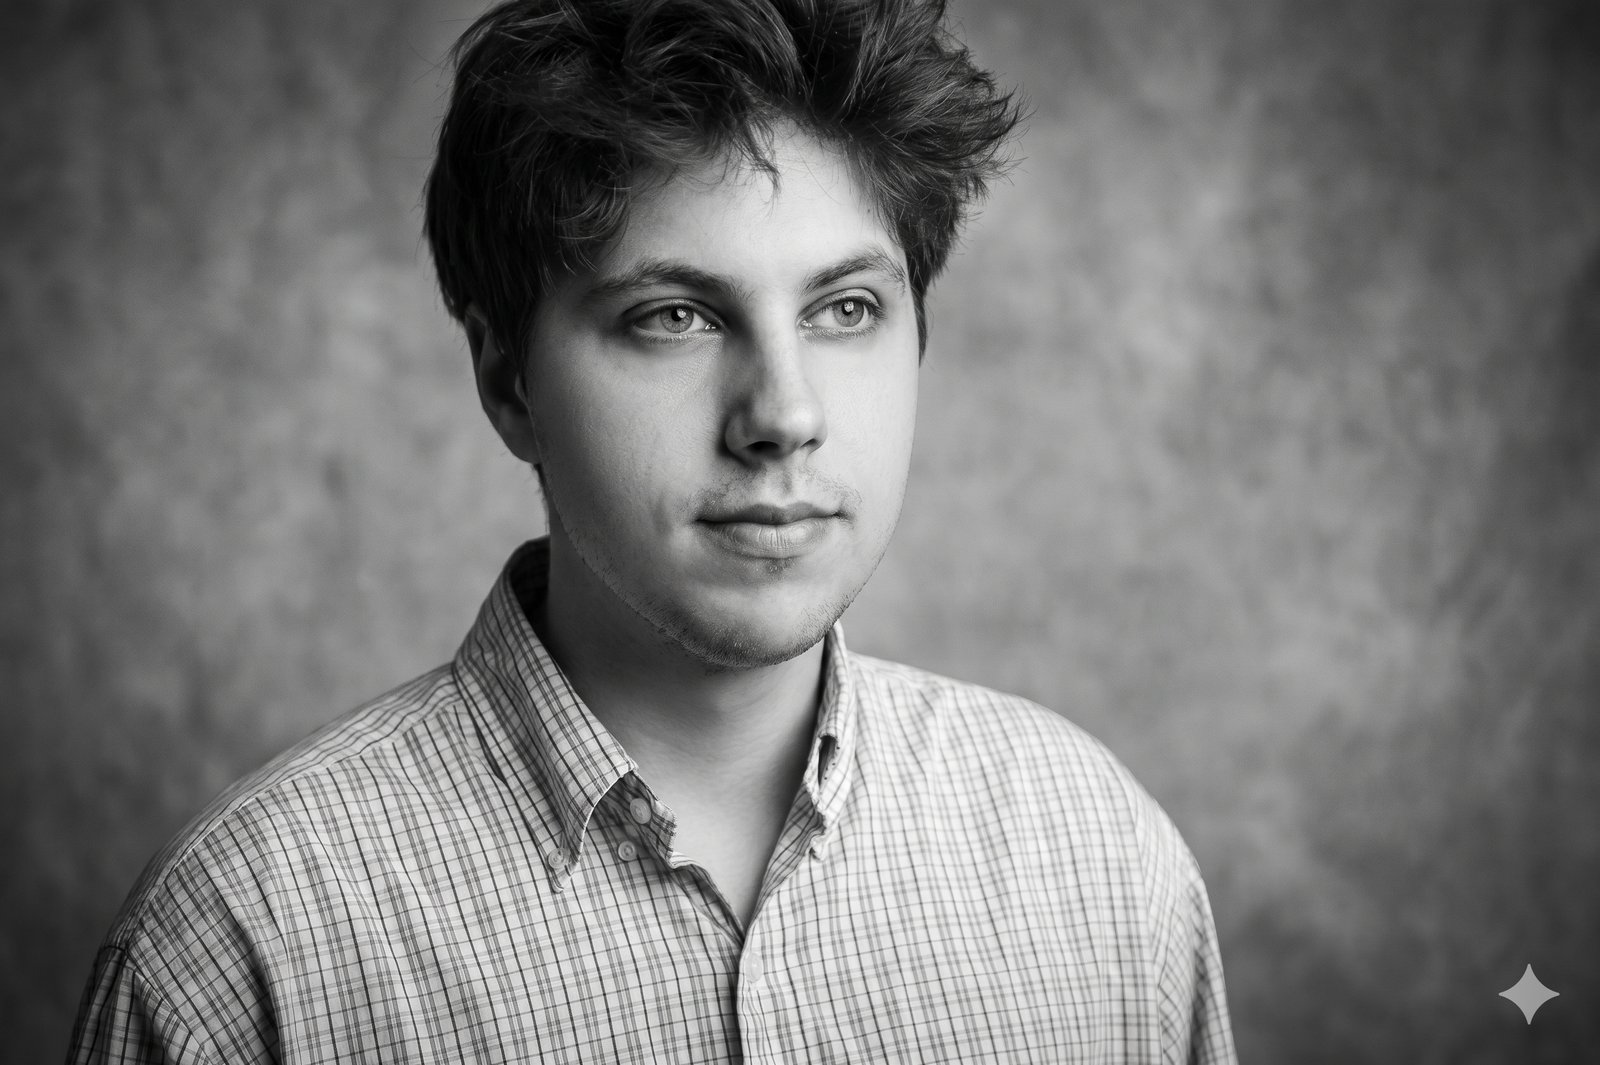
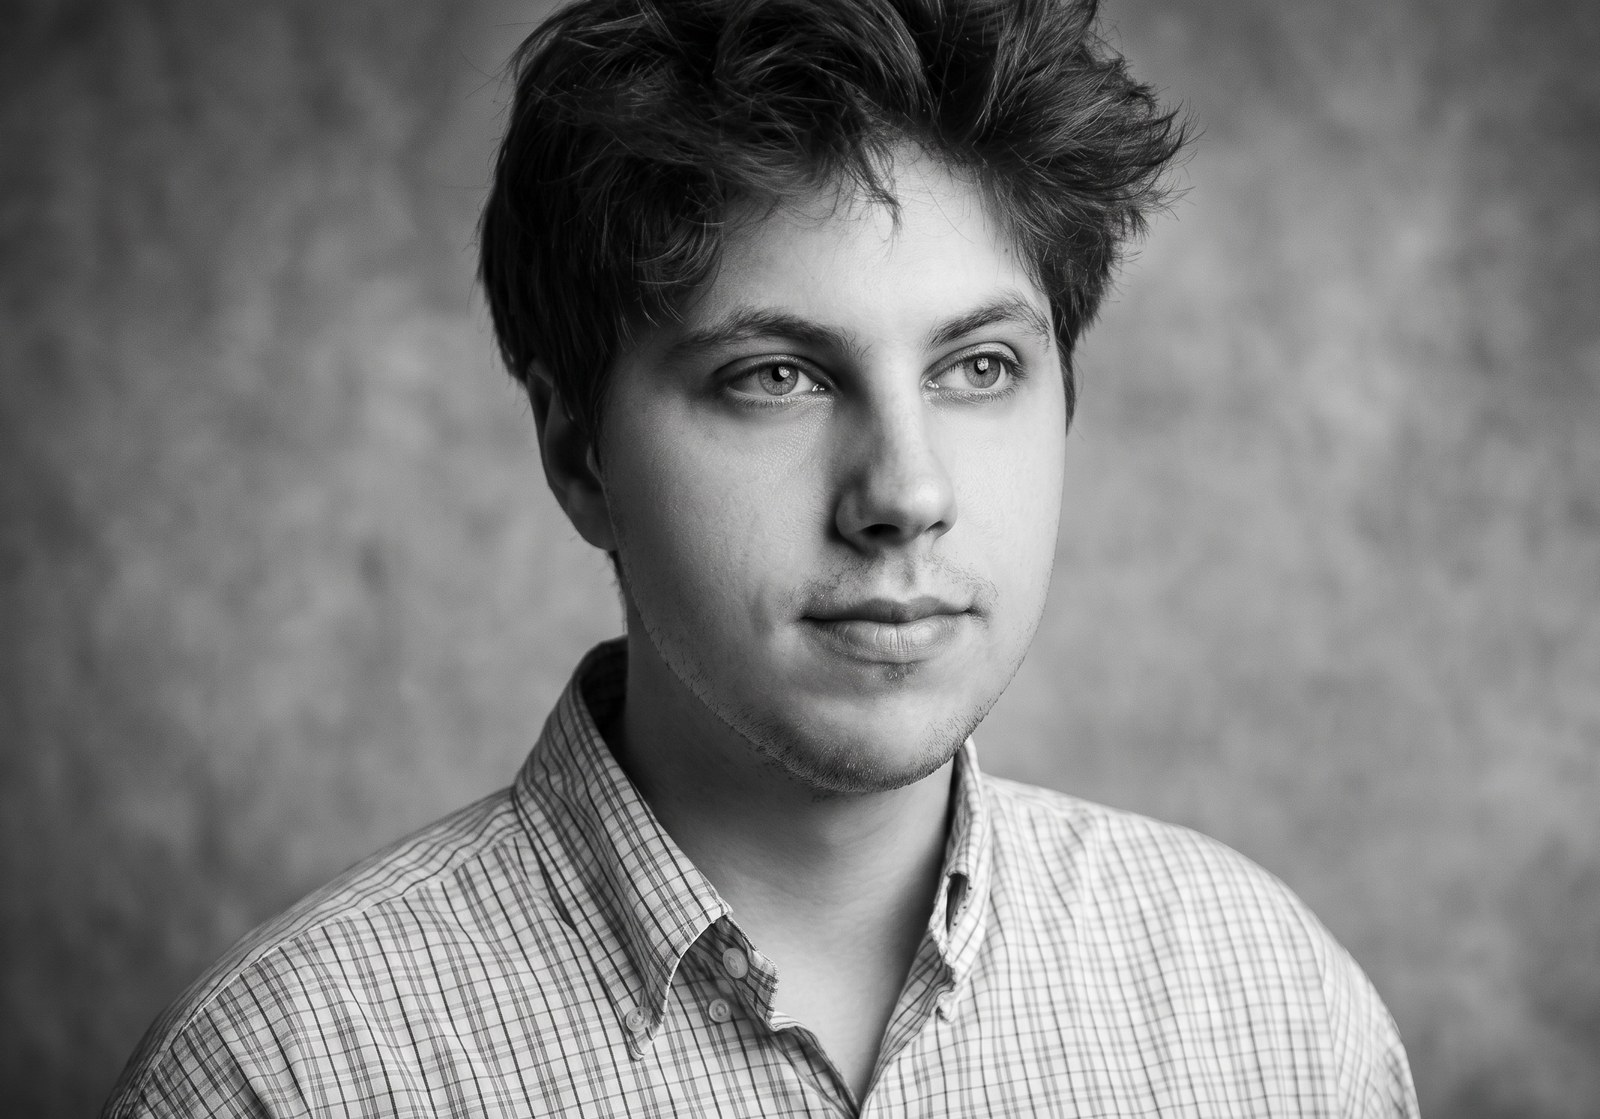
Ajoute la vraie photo de profil (About + teaser accueil)
Remplace les deux placeholders monogramme par la photo fournie par
l'utilisateur (confirmée comme étant lui, sans le filigrane IA de l'ancien
candidat). Retire loading="lazy" sur la version about.html : cette image
est proche du haut de page, elle doit charger immédiatement plutôt
qu'attendre une entrée en viewport.

diff --git a/about.html b/about.html
@@ -57,21 +57,8 @@
     <div class="about-grid">
 
       <div class="about-media" data-reveal>
-        <!--
-          PHOTO DE PROFIL À INSÉRER : assets/images/portrait-thomas-cossement.jpg
-          Portrait noir & blanc ou couleur, cadrage serré, format portrait 4:5, 1600px min.
-          ⚠ Un candidat a été trouvé dans ton dossier source (Links/Gemini_Generated_Image_
-          lzn9gclzn9gclzn9.png) mais porte un filigrane "généré par Gemini" visible en bas à
-          droite — donc probablement une photo retouchée/stylisée par IA plutôt qu'une photo
-          brute. Il n'a pas été utilisé ici tel quel : confirme que c'est bien toi et que le
-          style te convient avant de l'utiliser, ou dépose directement ta photo de préférence.
-          Pour la déposer : remplace tout ce <div class="media-placeholder...">
-          par -> <img class="portrait-photo" src="assets/images/portrait-thomas-cossement.jpg" alt="Thomas Cossement">
-          Le cadrage (ratio 4:5, object-fit cover) est déjà réglé par le
-          conteneur .media-placeholder--portrait : aucune autre retouche CSS nécessaire.
-        -->
-        <div class="media-placeholder media-placeholder--portrait" data-caption="Portrait">
-          <span class="ph-label">Insérer ici : photo de profil</span>
+        <div class="media-placeholder--portrait">
+          <img class="portrait-photo" src="assets/images/portrait-thomas-cossement.jpg" alt="Portrait de Thomas Cossement">
         </div>
       </div>
 

diff --git a/index.html b/index.html
@@ -184,17 +184,7 @@
   <section class="about-teaser">
     <div class="teaser-grid">
       <div class="teaser-media" data-reveal>
-        <!--
-          PHOTO DE PROFIL — voir la note dans about.html / assets/images/README.md
-          au sujet du candidat trouvé (filigrane IA) avant de l'utiliser ici.
-          Pour la déposer : remplace tout ce <div class="media-placeholder...">
-          par -> <img class="portrait-photo" src="assets/images/portrait-thomas-cossement.jpg" alt="Thomas Cossement">
-          Le cadrage (ratio 4:5, object-fit cover) est déjà réglé par le
-          conteneur .teaser-media : aucune autre retouche CSS nécessaire.
-        -->
-        <div class="media-placeholder media-placeholder--portrait">
-          <span class="ph-label">Insérer ici : photo de profil</span>
-        </div>
+        <img class="portrait-photo" src="assets/images/portrait-thomas-cossement.jpg" alt="Portrait de Thomas Cossement" loading="lazy">
       </div>
       <div class="teaser-text" data-reveal>
         <h2>À propos de moi</h2>
